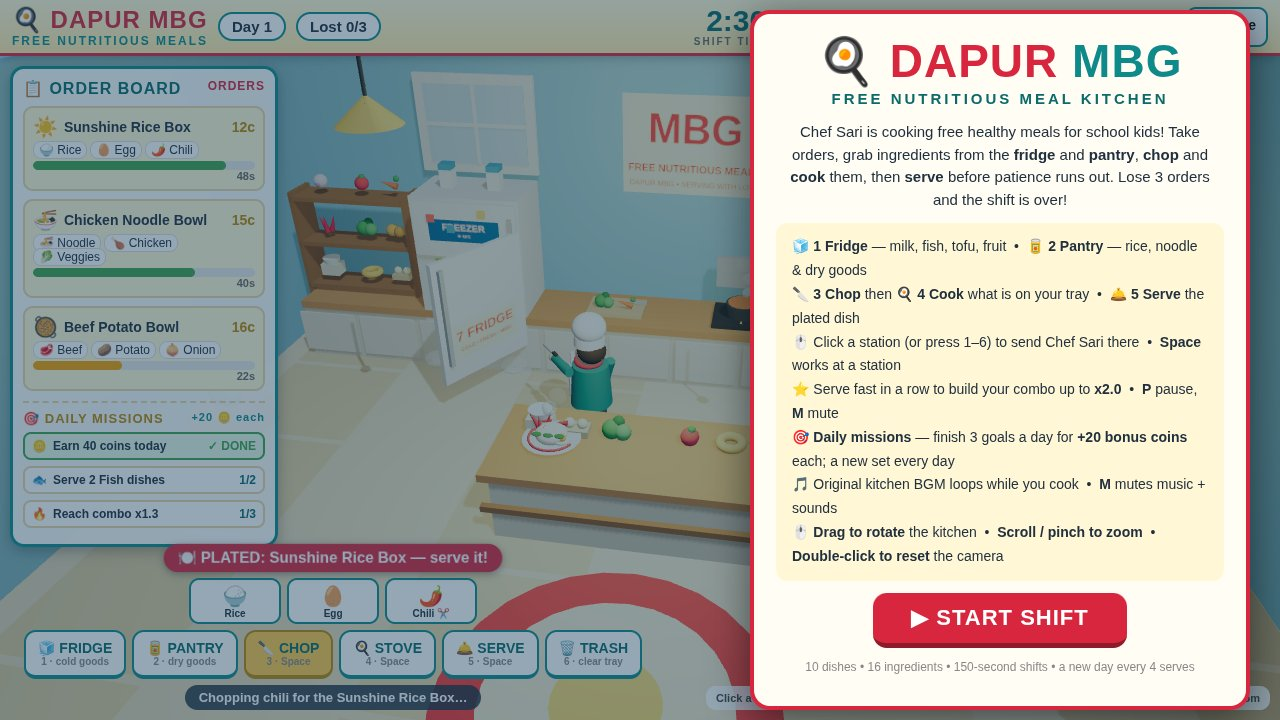
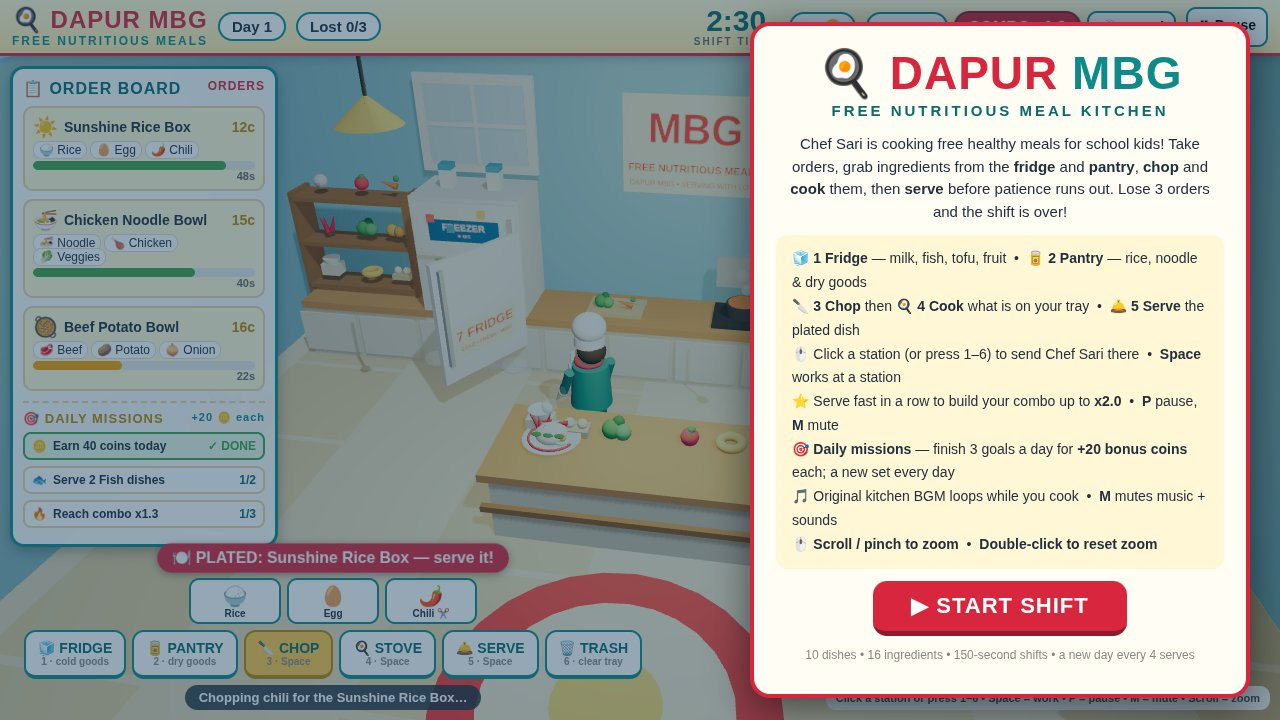
Remove orbit rotation, keep zoom only

Changed region(s): [[0.5312, 0.0, 1.0, 1.0], [0.125, 0.7333, 0.4062, 0.7944], [0.4062, 0.4889, 0.4688, 0.55]]

diff --git a/game/src/kitchen.js b/game/src/kitchen.js
@@ -250,55 +250,6 @@ export function buildKitchen(scene) {
   winParts.forEach((p) => win.add(p));
   win.position.set(-3.4, 3.7, -5.0); root.add(win);
 
-  // ---- Wall fade for the 180° orbit ----
-  // When the camera swings behind a wall, that wall (and the decor on it)
-  // fades to near-invisible so it never blocks the kitchen. Each wall is
-  // its own group; materials are made transparent-capable up front (opacity
-  // 1 renders identically to opaque). Faded walls also stop writing depth
-  // and casting shadows, or they would still hide the kitchen behind them.
-  const fadeGroups = [
-    { name: 'back', meshes: [backWall, baseboard, poster, clockFace, hand, ...winParts], cur: 1 },
-    { name: 'left', meshes: [leftWall], cur: 1 },
-    { name: 'right', meshes: [rightWall], cur: 1 },
-  ];
-  fadeGroups.forEach((g) => g.meshes.forEach((m) => { m.material.transparent = true; }));
-  // Does the camera's view ray hit this wall's plane inside the wall's
-  // bounds? If so the wall stands between the camera and the kitchen.
-  const _dir = new THREE.Vector3();
-  function rayHitsWall(camera, axis, plane, inBounds) {
-    camera.getWorldDirection(_dir);
-    const d = _dir[axis];
-    if (Math.abs(d) < 1e-6) return false;
-    const t = (plane - camera.position[axis]) / d;
-    if (t <= 0) return false;
-    const x = camera.position.x + _dir.x * t;
-    const y = camera.position.y + _dir.y * t;
-    const z = camera.position.z + _dir.z * t;
-    return inBounds(x, y, z);
-  }
-  function updateWallFade(camera, dt) {
-    if (!camera) return;
-    const blocking = {
-      // back wall front face z=-5.05, 14 wide, 5.2 tall
-      back: rayHitsWall(camera, 'z', -5.05, (x, y) => Math.abs(x) <= 7 && y >= 0 && y <= 5.2),
-      // side walls front faces x=∓6.85, z -5.5..4.5, 5.2 tall
-      left: rayHitsWall(camera, 'x', -6.85, (x, y, z) => z >= -5.5 && z <= 4.5 && y >= 0 && y <= 5.2),
-      right: rayHitsWall(camera, 'x', 6.85, (x, y, z) => z >= -5.5 && z <= 4.5 && y >= 0 && y <= 5.2),
-    };
-    const k = 1 - Math.exp(-dt * 8); // ~0.3 s fade
-    for (const g of fadeGroups) {
-      const target = blocking[g.name] ? 0.08 : 1;
-      g.cur += (target - g.cur) * k;
-      if (Math.abs(g.cur - target) < 0.005) g.cur = target;
-      const solid = g.cur > 0.5;
-      for (const m of g.meshes) {
-        m.material.opacity = g.cur;
-        m.material.depthWrite = solid;
-        m.castShadow = solid;
-      }
-    }
-  }
-
   // two pendant lamps, clear of the MBG poster in the middle
   for (const lx of [-2.8, 2.8]) {
     const lamp = new THREE.Group();
@@ -450,8 +401,7 @@ export function buildKitchen(scene) {
     island: { pos: new THREE.Vector3(0, 0, 0.9), face: new THREE.Vector3(0, 0, -0.7) },
   };
 
-  function update(dt, t, camera) {
-    updateWallFade(camera, dt);
+  function update(dt, t) {
     for (const s of animated.steam) {
       s.position.y = 1.45 + ((t * 0.35 + s.userData.rise) % 1) * 0.7;
       s.material.opacity = 0.65 * (1 - ((t * 0.35 + s.userData.rise) % 1));
@@ -472,8 +422,6 @@ export function buildKitchen(scene) {
 
   return {
     root, stations, island, fridgeDoor, update,
-    // per-wall current opacity (back, left, right) — debug/readout only
-    wallState: () => fadeGroups.map((g) => +g.cur.toFixed(2)),
     // 1.05 rad (~60°): the door stands diagonally out into the open floor,
     // its "7 FRIDGE" face visible from the camera. (A full 1.9 rad swing
     // turns the face edge-on to the default camera and the door vanishes.)

diff --git a/game/src/camera.js b/game/src/camera.js
@@ -1,10 +1,9 @@
-// camera.js — custom orbit camera: drag to rotate, wheel / pinch to zoom,
-// double-click / double-tap to reset. No libraries, no CDN — ~140 lines.
-// The camera orbits a fixed target (the kitchen centre) on a sphere:
-// azimuth (side to side, FULL 360° — the walls fade when the camera swings
-// behind them, so no angle is ever blocked), polar (height), distance
-// (zoom). Polar and distance are clamped so the camera never goes under the
-// floor or so far it loses the kitchen. Movement is damped (goal vs current).
+// camera.js — zoom-only camera: wheel / pinch to zoom, double-click /
+// double-tap to reset the zoom. No rotation: dragging the mouse never moves
+// the camera (Mu: the spinning view looked messy). No libraries, no CDN.
+// The camera sits at a fixed angle on the default view; distance (zoom)
+// is clamped so it never goes under the floor or so far it loses the
+// kitchen. Movement is damped (goal vs current).
 import * as THREE from 'three';
 
 const clamp = (v, a, b) => Math.max(a, Math.min(b, v));
@@ -24,10 +23,8 @@ export const CAMERA_DEFAULTS = {
   distance: 11.16,
 };
 
-// Azimuth is NOT clamped: the camera orbits a full 360° (180° to the
-// opposite side and beyond). The kitchen walls fade out whenever one stands
-// between the camera and the kitchen (see kitchen.js updateWallFade), so no
-// angle is ever blocked by a wall.
+// Azimuth is fixed: no input ever changes it (screenshot presets may set
+// their own angle via syncFromCamera, and it stays put after that).
 export const CAMERA_LIMITS = {
   minDistance: 6, maxDistance: 16,
   minPolar: 0.35, maxPolar: 1.25,
@@ -68,8 +65,8 @@ export function createOrbitCamera(camera, dom, opts = {}) {
 
   function update(dt) {
     const k = 1 - Math.exp(-dt * 10); // frame-rate independent damping
-    // shortest-arc damping for azimuth: across the ±PI wrap the camera
-    // must take the short way round, never the long way through the front
+    // shortest-arc damping for azimuth (only presets set it, via
+    // syncFromCamera — no input changes it after that)
     cur.azimuth = wrapAngle(cur.azimuth + wrapAngle(goal.azimuth - cur.azimuth) * k);
     cur.polar += (goal.polar - cur.polar) * k;
     cur.distance += (goal.distance - cur.distance) * k;
@@ -127,11 +124,8 @@ export function createOrbitCamera(camera, dom, opts = {}) {
     if (pointers.size === 1) {
       moved += Math.abs(dx) + Math.abs(dy);
       if (moved > 5) dragging = true; // >5px = a drag, not a click
-      if (dragging) {
-        // azimuth is free: full 360° orbit, wrapped so it never grows
-        goal.azimuth = wrapAngle(goal.azimuth - dx * 0.005);
-        goal.polar = clamp(goal.polar - dy * 0.005, CAMERA_LIMITS.minPolar, CAMERA_LIMITS.maxPolar);
-      }
+      // a drag moves nothing: rotation was removed (Mu: it looked messy).
+      // dragging is still tracked so a drag is never mistaken for a tap.
     }
   }
 

diff --git a/game/src/game.js b/game/src/game.js
@@ -61,8 +61,9 @@ function init() {
   camera.position.set(0, 6.6, 6.6);
   camera.lookAt(0, 0.9, -3.0);
 
-  // orbit camera: drag to rotate, wheel / pinch to zoom, double-click to
-  // reset. A plain click (no drag) still reaches the stations below.
+  // zoom camera: wheel / pinch to zoom, double-click to reset the zoom.
+  // Dragging moves nothing (rotation removed). A plain click (no drag)
+  // still reaches the stations below.
   orbit = createOrbitCamera(camera, canvas, {
     onTap: (e) => {
       if (state !== 'playing') return;
@@ -529,7 +530,7 @@ function tick() {
   const dt = Math.min(clock.getDelta(), 0.25); // generous cap: slow machines still play in real time
   const t = clock.elapsedTime;
   orbit.update(dt); // damped orbit — runs in every state, incl. title
-  kitchen.update(dt, t, camera); // steam/mist + wall fade for the 180° orbit
+  kitchen.update(dt, t); // steam/mist
 
   if (state === 'playing') {
     orderMgr.update(dt);
@@ -578,7 +579,6 @@ window.__mbg = {
   missions: () => missionMgr.state(),
   music: () => SFX.musicStats(),
   camera: () => orbit.state(),
-  walls: () => kitchen.wallState(), // [back, left, right] opacity 0..1
   // project a 3D point to screen pixels (for playtest click targeting)
   screenPoint: (x, y, z) => {
     const v = new THREE.Vector3(x, y, z).project(camera);

diff --git a/game/index.html b/game/index.html
@@ -157,7 +157,7 @@
   <div id="hint">Welcome to Dapur MBG!</div>
 </div>
 
-<div id="controls-hint">Click a station or press 1–6 • Space = work • P = pause • M = mute • Drag = rotate camera • Scroll = zoom</div>
+<div id="controls-hint">Click a station or press 1–6 • Space = work • P = pause • M = mute • Scroll = zoom</div>
 
 <div class="overlay" id="title-screen">
   <div class="card">
@@ -173,7 +173,7 @@
       ⭐ Serve fast in a row to build your combo up to <b>x2.0</b> &nbsp;•&nbsp; <b>P</b> pause, <b>M</b> mute<br>
       🎯 <b>Daily missions</b> — finish 3 goals a day for <b>+20 bonus coins</b> each; a new set every day<br>
       🎵 Original kitchen BGM loops while you cook &nbsp;•&nbsp; <b>M</b> mutes music + sounds<br>
-      🖱 <b>Drag to rotate</b> the kitchen &nbsp;•&nbsp; <b>Scroll / pinch to zoom</b> &nbsp;•&nbsp; <b>Double-click to reset</b> the camera
+      🖱 <b>Scroll / pinch to zoom</b> &nbsp;•&nbsp; <b>Double-click to reset zoom</b>
     </div>
     <button class="big-btn" id="start-btn">▶ START SHIFT</button>
     <p style="margin-top:10px; font-size:12px; color:#888;">10 dishes • 16 ingredients • 150-second shifts • a new day every 4 serves</p>
